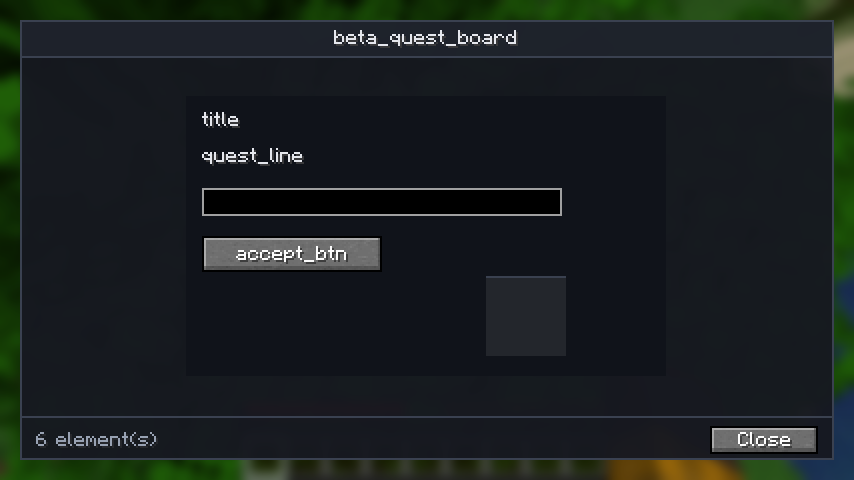
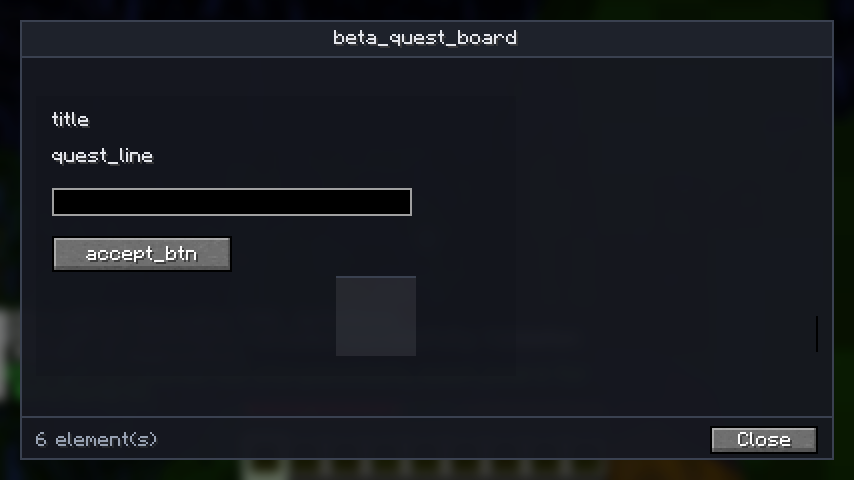
Clamp authored widgets to the content band; keep placeholder semantics
Review fix: authored buttons/inputs were only scissored for drawing —
vanilla hit-testing uses widget bounds, so elements authored outside the
band still rendered and could steal clicks over the chrome. Widget
rects now intersect the content band; fully-outside elements are
skipped and counted in the status line.

Also: keep authored panels translucent (PANEL_FILL) so siblings blend
instead of occlude, and tint unsupported-element placeholders with the
warning hue so they stay visibly distinct.

Refs #203

Generated with [Devin](https://devin.ai)

diff --git a/src/main/java/com/storynpcs/client/gui/player/CustomGuiScreen.java b/src/main/java/com/storynpcs/client/gui/player/CustomGuiScreen.java
@@ -29,6 +29,13 @@ import java.util.UUID;
  */
 public class CustomGuiScreen extends UiScreen {
 
+    /** Authored panel fill — translucent dark so sibling panels blend rather
+     *  than occlude, tinted to the FIELD_BG tone. */
+    private static final int PANEL_FILL = 0x6610131A;
+    /** Unsupported-element placeholder fill — warning-tinted so it stays
+     *  visibly distinct from authored panels. */
+    private static final int UNSUPPORTED_FILL = 0x22FBBF24;
+
     private final CustomGuiLayout layout;
     private final CustomGuiScreenModel model;
     private final UUID sessionId;
@@ -52,17 +59,24 @@ public class CustomGuiScreen extends UiScreen {
         originX = contentLeft() + Math.max(0, (contentWidth() - extent[0]) / 2);
         originY = contentTop() + Math.max(0, (contentBottom() - contentTop() - extent[1]) / 2);
         inputBoxes.clear();
+        int clipped = 0;
         for (var e : model.entries()) {
-            int x = originX + e.absX();
-            int y = originY + e.absY();
             int w = Math.max(20, e.width());
             int h = Math.max(12, e.height());
             switch (e.type()) {
-                case "button" -> addRenderableWidget(Button.builder(
-                                resolveText(e), b -> commit(e.path()))
-                        .bounds(x, y, Math.min(w, 200), Math.min(h, 24)).build());
+                case "button" -> {
+                    int[] r = bandClamp(originX + e.absX(), originY + e.absY(),
+                            Math.min(w, 200), Math.min(h, 24));
+                    if (r == null) { clipped++; break; }
+                    addRenderableWidget(Button.builder(
+                                    resolveText(e), b -> commit(e.path()))
+                            .bounds(r[0], r[1], r[2], r[3]).build());
+                }
                 case "input" -> {
-                    var box = new EditBox(this.font, x, y, Math.min(w, 220), 14,
+                    int[] r = bandClamp(originX + e.absX(), originY + e.absY(),
+                            Math.min(w, 220), 14);
+                    if (r == null) { clipped++; break; }
+                    var box = new EditBox(this.font, r[0], r[1], r[2], r[3],
                             resolveText(e));
                     box.setMaxLength(128);
                     box.setResponder(v -> model.setInputValue(e.path(), v));
@@ -72,8 +86,24 @@ public class CustomGuiScreen extends UiScreen {
                 default -> { }
             }
         }
-        setStatus(Component.literal(model.entries().size() + " element(s)"));
+        setStatus(Component.literal(Math.max(0, model.entries().size() - 1) + " element(s)"
+                + (clipped > 0 ? ", " + clipped + " clipped" : "")));
         addFooterAction(Component.literal("Close"), b -> onClose());
+    }
+
+    /**
+     * Intersects an authored rect with the content band — widgets are
+     * scissored for drawing but vanilla hit-tests use widget bounds, so the
+     * only honest containment is to clamp the widget itself. Fully outside
+     * returns null (the element is skipped, counted as clipped).
+     */
+    private int[] bandClamp(int x, int y, int w, int h) {
+        int cx = Math.max(x, contentLeft());
+        int cy = Math.max(y, contentTop());
+        int cr = Math.min(x + w, contentRight());
+        int cb = Math.min(y + h, contentBottom());
+        if (cr <= cx || cb <= cy) return null;
+        return new int[]{cx, cy, Math.max(1, cr - cx), Math.max(1, cb - cy)};
     }
 
     private Component resolveText(CustomGuiScreenModel.RenderEntry e) {
@@ -108,7 +138,7 @@ public class CustomGuiScreen extends UiScreen {
             int w = Math.max(1, e.width());
             int h = Math.max(1, e.height());
             switch (e.type()) {
-                case "panel" -> graphics.fill(x, y, x + w, y + h, UiTheme.FIELD_BG);
+                case "panel" -> graphics.fill(x, y, x + w, y + h, PANEL_FILL);
                 case "texture" -> {
                     // Authored texture refs aren't resolved client-side — draw
                     // a bordered placeholder so the authored footprint is real.
@@ -119,7 +149,7 @@ public class CustomGuiScreen extends UiScreen {
                 case "button", "input" -> { } // real widgets render themselves
                 default -> {
                     // Unsupported authored element — honest placeholder.
-                    graphics.fill(x, y, x + w, y + Math.max(10, h), UiTheme.FIELD_BG);
+                    graphics.fill(x, y, x + w, y + Math.max(10, h), UNSUPPORTED_FILL);
                     graphics.drawString(this.font, "§8[" + e.type() + "] " + e.name(),
                             x + 2, y + 2, UiTheme.TEXT_MUTED);
                 }
